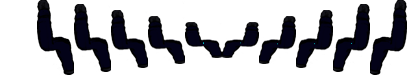
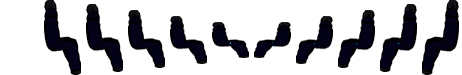
Enemies sprites and legs sprite problem fix

diff --git a/Enemy.cpp b/Enemy.cpp
@@ -14,7 +14,16 @@ Enemy::Enemy(sf::Texture *texture, sf::Clock *clock, sf::RenderWindow *window) :
     sprite.setOrigin(30,30);
 	frame = 0;
 	//frames = {sf::IntRect(0,0,60,60), sf::IntRect(60,0,71,60),sf::IntRect(0,0,60,60),sf::IntRect(131,0,71,60)};
-	frames = {sf::IntRect(0,0,60,60)};
+	if(enemy_type==1)
+    {
+        frames = {sf::IntRect(68,0,52,60), sf::IntRect(5,0,55,60),
+        sf::IntRect(68,0,52,60), sf::IntRect(124,0,56,60),};
+    }
+    if(enemy_type==0)
+    {
+        frames = {sf::IntRect(67,60,53,60), sf::IntRect(0,60,60,60),
+        sf::IntRect(67,60,53,60), sf::IntRect(122,60,58,60),};
+    }
 }
 
 void Enemy::nextFrame() {
@@ -29,8 +38,21 @@ void Enemy::draw() {
 	if (!visible) {
 		return;
 	}
+
+    const float PI = 3.14159265;
+
+    float rotation = ((atan2(moving.y, moving.x)) * 180 / PI) + 180;
+
     sprite.setPosition(position);
     sprite.setTextureRect(frames[frame]);
+    if (seen_player)
+    {
+        sprite.setRotation(rotation);
+    }
+    else
+    {
+        sprite.setRotation(rotation_notseen);
+    }
 
 	window->draw(sprite);
 }
@@ -70,7 +92,7 @@ void Enemy::update(Player player, std::vector< std::vector<sf::Vector2f> > map) 
 
     if (target_movement == sf::Vector2f(0, 0)) {
         frame = 0;
-    } else if ((time_now - lastAnimFrame).asMilliseconds() > 300) {
+    } else if ((time_now - lastAnimFrame).asMilliseconds() > 100) {
         nextFrame();
         lastAnimFrame = time_now;
 	}

diff --git a/Player.cpp b/Player.cpp
@@ -21,13 +21,13 @@ Player::Player(sf::Clock *clock, sf::RenderWindow *window) :
 	piernas.setTexture(legs);
     piernas.setOrigin(18,44);
 	frame = 0;
-	frames = {sf::IntRect(0,0,37,75), sf::IntRect(185,0,37,75), sf::IntRect(148,0,37,75),
-        sf::IntRect(111,0,37,75), sf::IntRect(74,0,37,75), sf::IntRect(37,0,37,75),
-        sf::IntRect(74,0,37,75), sf::IntRect(111,0,37,75), sf::IntRect(148,0,37,75),
-        sf::IntRect(185,0,37,75), sf::IntRect(0,0,37,75), sf::IntRect(222,0,37,75),
-        sf::IntRect(259,0,37,75), sf::IntRect(296,0,37,75), sf::IntRect(333,0,37,75),
-        sf::IntRect(370,0,37,75), sf::IntRect(333,0,37,75), sf::IntRect(296,0,37,75),
-        sf::IntRect(259,0,37,75), sf::IntRect(222,0,37,75)};
+	frames = {sf::IntRect(0,0,37,75), sf::IntRect(212,0,37,75), sf::IntRect(170,0,37,75),
+        sf::IntRect(128,0,37,75), sf::IntRect(86,0,37,75), sf::IntRect(44,0,37,75),
+        sf::IntRect(86,0,37,75), sf::IntRect(128,0,37,75), sf::IntRect(170,0,37,75),
+        sf::IntRect(212,0,37,75), sf::IntRect(0,0,37,75), sf::IntRect(254,0,37,75),
+        sf::IntRect(296,0,37,75), sf::IntRect(338,0,37,75), sf::IntRect(380,0,37,75),
+        sf::IntRect(422,0,37,75), sf::IntRect(380,0,37,75), sf::IntRect(338,0,37,75),
+        sf::IntRect(296,0,37,75), sf::IntRect(254,0,37,75)};
 }
 
 void Player::nextFrame() {

diff --git a/Enemy.hpp b/Enemy.hpp
@@ -21,6 +21,8 @@ class Enemy : public Entity
 		std::vector<sf::IntRect> frames;
 		int frame;
 		sf::Time lastAnimFrame;
+		int enemy_type=rand()%2;
+		int rotation_notseen=rand()%360;
 		bool seen_player = false;
 };
 
